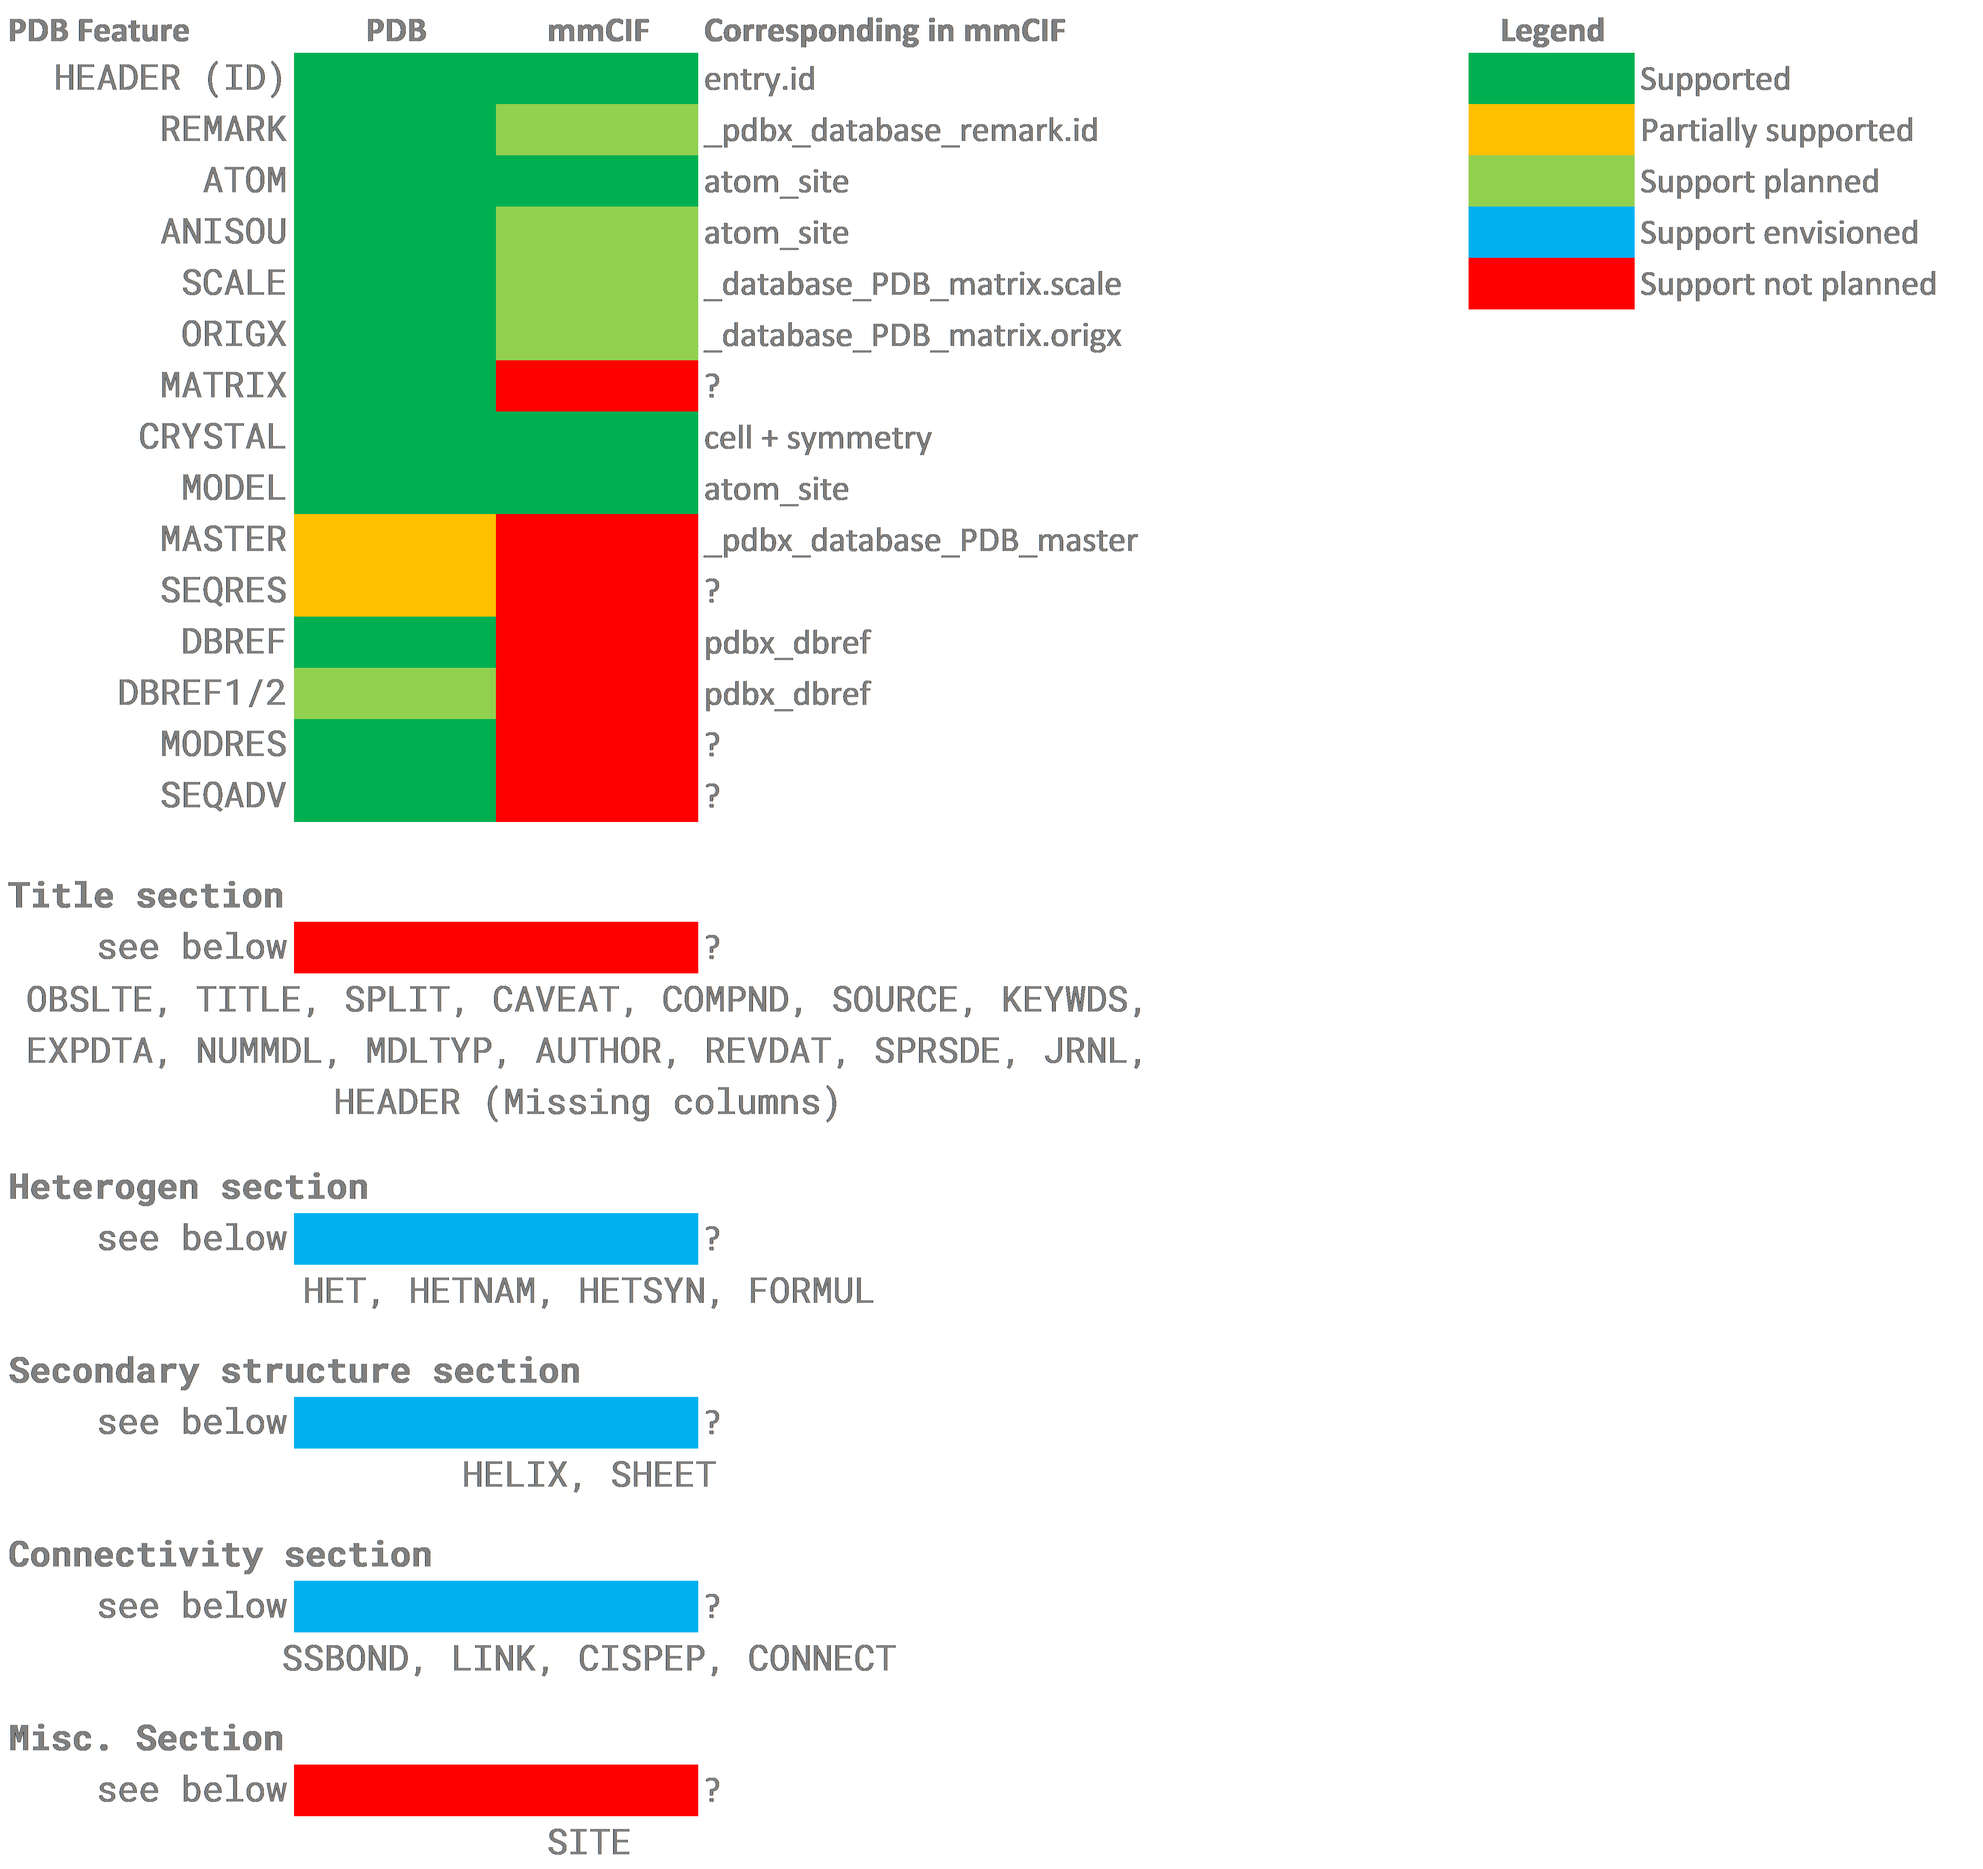
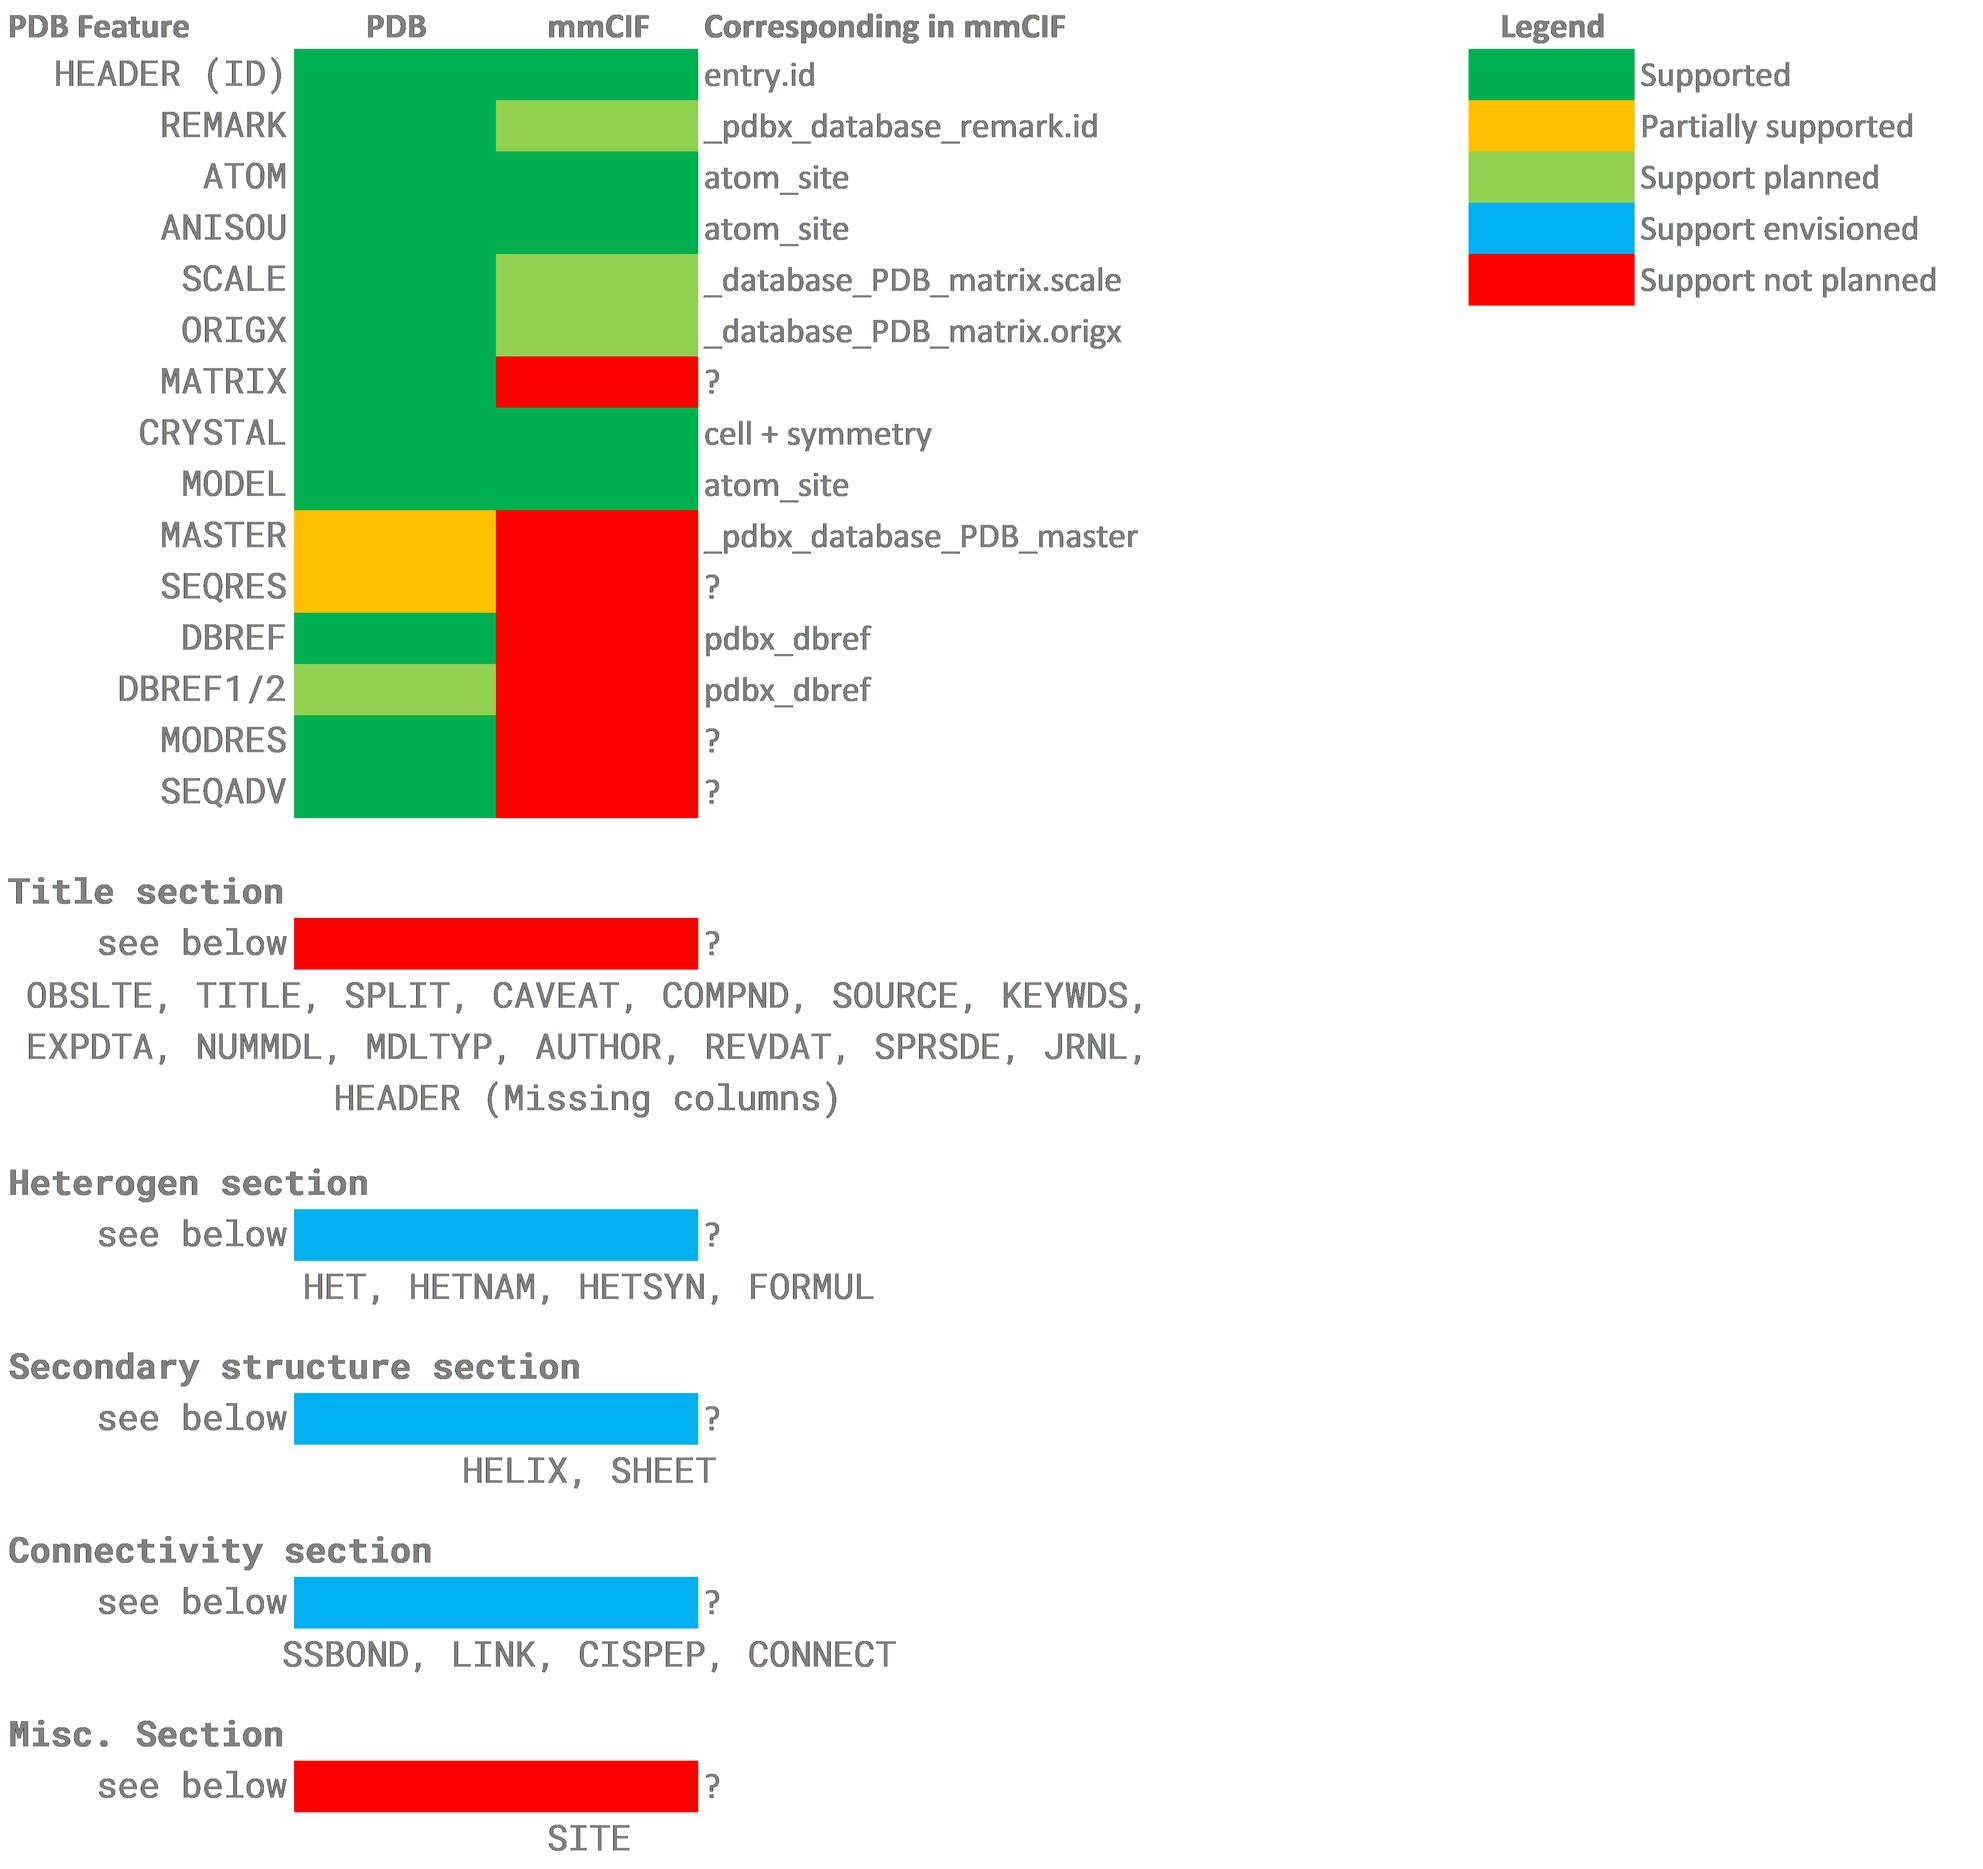
Added support for AnsioU in mmCIF and fixed some issues with it

diff --git a/src/save/mmcif.rs b/src/save/mmcif.rs
@@ -109,6 +109,9 @@ _symmetry.Int_Tables_number                {}",
         );
     }
 
+    let anisou = pdb
+        .atoms()
+        .any(|a| a.anisotropic_temperature_factors().is_some());
     write!(
         "loop_
 _atom_site.group_PDB 
@@ -127,7 +130,21 @@ _atom_site.Cartn_z
 _atom_site.occupancy 
 _atom_site.B_iso_or_equiv 
 _atom_site.pdbx_formal_charge 
-_atom_site.pdbx_PDB_model_num"
+_atom_site.pdbx_PDB_model_num{}",
+        if anisou {
+            "
+_atom_site.aniso_U[1][1]
+_atom_site.aniso_U[1][2]
+_atom_site.aniso_U[1][3]
+_atom_site.aniso_U[2][1]
+_atom_site.aniso_U[2][2]
+_atom_site.aniso_U[2][3]
+_atom_site.aniso_U[3][1]
+_atom_site.aniso_U[3][2]
+_atom_site.aniso_U[3][3]"
+        } else {
+            ""
+        }
     );
 
     let mut lines = Vec::new();
@@ -139,7 +156,7 @@ _atom_site.pdbx_PDB_model_num"
             for residue in chain.residues() {
                 for conformer in residue.conformers() {
                     for atom in conformer.atoms() {
-                        lines.push(vec![
+                        let mut data = vec![
                             (if atom.hetero() { "HETATM" } else { "ATOM" }).to_string(), // ATOM or HETATM
                             atom.serial_number().to_string(), // Serial number
                             atom.element().to_string(),       // Element
@@ -157,7 +174,36 @@ _atom_site.pdbx_PDB_model_num"
                             print_float(atom.b_factor()), // B
                             atom.charge().to_string(),    // Charge
                             model.serial_number().to_string(), // Model serial number
-                        ]);
+                        ];
+                        if anisou {
+                            if let Some(matrix) = atom.anisotropic_temperature_factors() {
+                                data.extend(vec![
+                                    print_float(matrix[0][0]),
+                                    print_float(matrix[0][1]),
+                                    print_float(matrix[0][2]),
+                                    print_float(matrix[1][0]),
+                                    print_float(matrix[1][1]),
+                                    print_float(matrix[1][2]),
+                                    print_float(matrix[2][0]),
+                                    print_float(matrix[2][1]),
+                                    print_float(matrix[2][2]),
+                                ]);
+                            } else {
+                                data.extend(vec![
+                                    ".".to_string(),
+                                    ".".to_string(),
+                                    ".".to_string(),
+                                    ".".to_string(),
+                                    ".".to_string(),
+                                    ".".to_string(),
+                                    ".".to_string(),
+                                    ".".to_string(),
+                                    ".".to_string(),
+                                ]);
+                            }
+                        }
+
+                        lines.push(data);
                     }
                 }
             }

diff --git a/src/save/pdb.rs b/src/save/pdb.rs
@@ -360,13 +360,13 @@ pub fn save_pdb_raw<T: Write>(pdb: &PDB, mut sink: BufWriter<T>, level: Strictne
                                 atom_line(atom, conformer, residue, chain),
                                 (atom.anisotropic_temperature_factors().unwrap()[0][0] * 10000.0)
                                     as isize,
+                                (atom.anisotropic_temperature_factors().unwrap()[1][1] * 10000.0)
+                                    as isize,
+                                (atom.anisotropic_temperature_factors().unwrap()[2][2] * 10000.0)
+                                    as isize,
                                 (atom.anisotropic_temperature_factors().unwrap()[0][1] * 10000.0)
                                     as isize,
                                 (atom.anisotropic_temperature_factors().unwrap()[0][2] * 10000.0)
-                                    as isize,
-                                (atom.anisotropic_temperature_factors().unwrap()[1][0] * 10000.0)
-                                    as isize,
-                                (atom.anisotropic_temperature_factors().unwrap()[1][1] * 10000.0)
                                     as isize,
                                 (atom.anisotropic_temperature_factors().unwrap()[1][2] * 10000.0)
                                     as isize,

diff --git a/src/structs/atom.rs b/src/structs/atom.rs
@@ -29,7 +29,7 @@ pub struct Atom {
     /// The charge of the Atom
     charge: isize,
     /// The anisotropic temperature factors, if applicable
-    atf: Option<[[f64; 3]; 2]>,
+    atf: Option<[[f64; 3]; 3]>,
 }
 
 impl Atom {
@@ -344,12 +344,12 @@ impl Atom {
     }
 
     /// Get the anisotropic temperature factors, if available
-    pub fn anisotropic_temperature_factors(&self) -> Option<[[f64; 3]; 2]> {
+    pub fn anisotropic_temperature_factors(&self) -> Option<[[f64; 3]; 3]> {
         self.atf
     }
 
     /// Set the anisotropic temperature factors
-    pub fn set_anisotropic_temperature_factors(&mut self, factors: [[f64; 3]; 2]) {
+    pub fn set_anisotropic_temperature_factors(&mut self, factors: [[f64; 3]; 3]) {
         self.atf = Some(factors);
     }
 

diff --git a/src/read/pdb/parser.rs b/src/read/pdb/parser.rs
@@ -820,13 +820,18 @@ fn lex_anisou(linenumber: usize, line: String) -> (LexItem, Vec<PDBError>) {
     let factors = [
         [
             (ai as f64) / 10000.0,
-            (bi as f64) / 10000.0,
-            (ci as f64) / 10000.0,
+            (di as f64) / 10000.0,
+            (ei as f64) / 10000.0,
         ],
         [
             (di as f64) / 10000.0,
+            (bi as f64) / 10000.0,
+            (fi as f64) / 10000.0,
+        ],
+        [
             (ei as f64) / 10000.0,
             (fi as f64) / 10000.0,
+            (ci as f64) / 10000.0,
         ],
     ];
 

diff --git a/src/read/pdb/lexitem.rs b/src/read/pdb/lexitem.rs
@@ -66,7 +66,7 @@ pub enum LexItem {
         String,
         isize,
         Option<String>,
-        [[f64; 3]; 2],
+        [[f64; 3]; 3],
         String,
         String,
         isize,

diff --git a/README.md b/README.md
@@ -32,7 +32,7 @@ Also because it is written in Rust it is much faster then anything written in Py
 Also see [changelog](https://github.com/nonnominandus/pdbtbx/blob/master/changelog.md).
 
 ## Supported features
-As the main goal of this library is to allow access to the atomical data many meta data features of both PDB and mmCIF are unsupported.
+As the main goal of this library is to allow access to the atomical data many metadata features of both PDB and mmCIF are unsupported.
 
 ![supported features table](pictures/supported_features.png)
 
